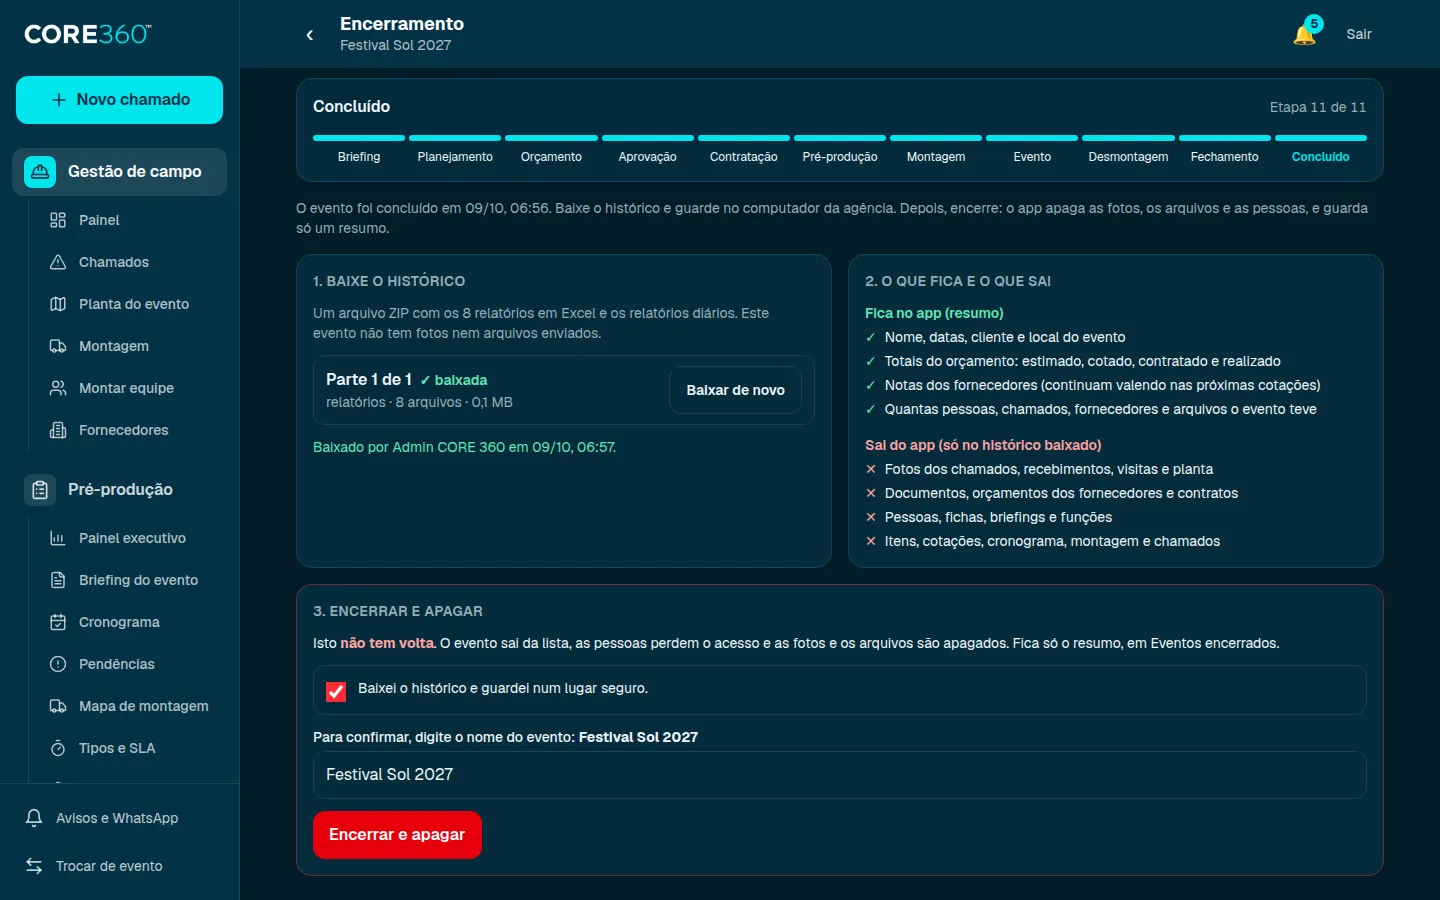
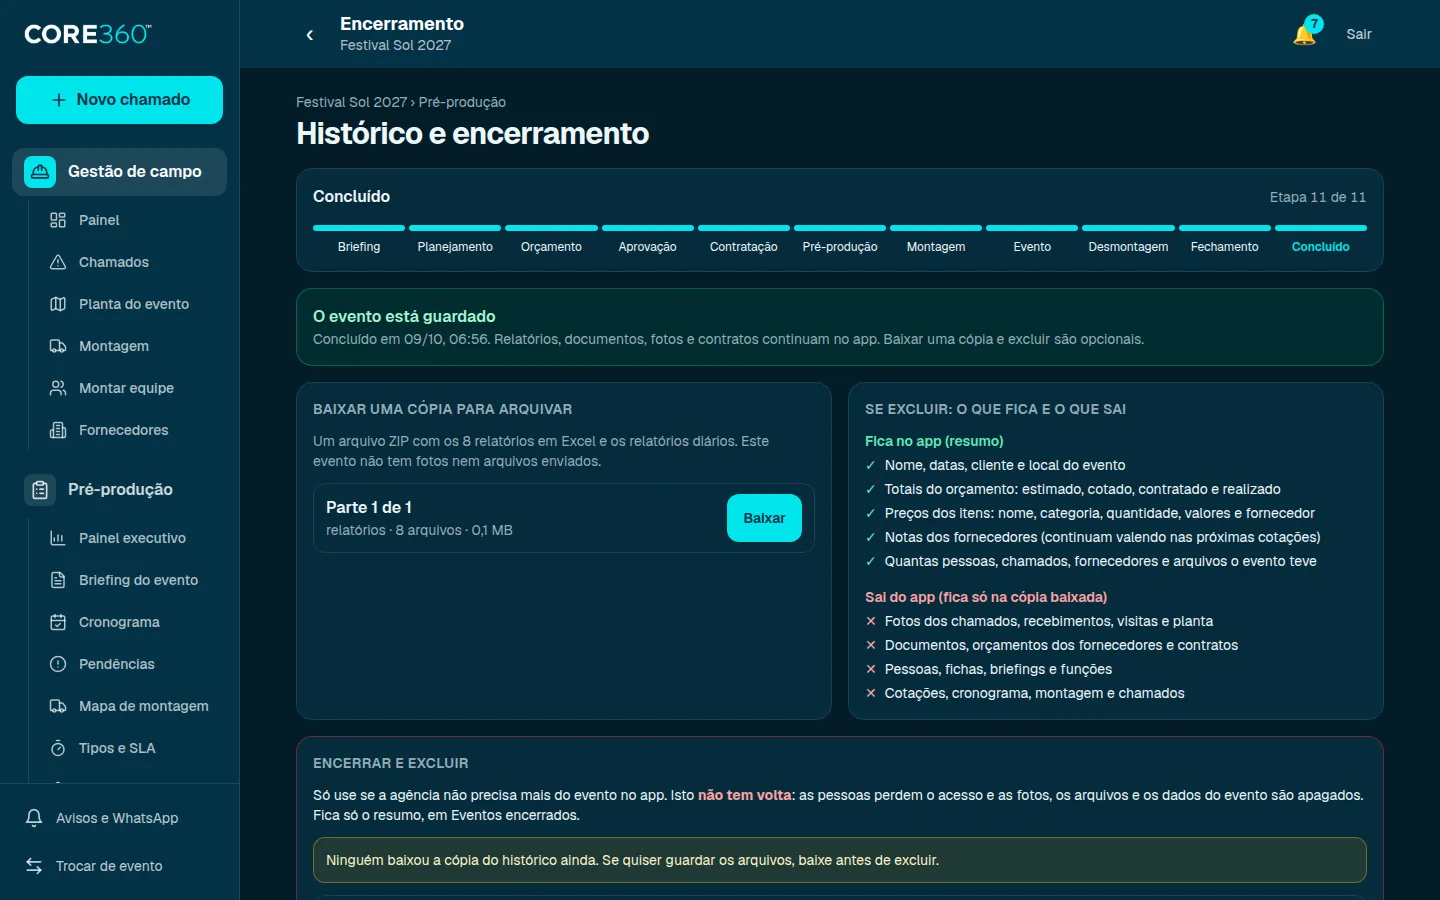
Encerramento: volta para a lista quem não vê o resumo; site com a tela nova
Claude-Session: https://claude.ai/code/session_01NXJjiWT1ebLkJ8Fi61cfJZ

diff --git a/src/modules/closure/closure.service.ts b/src/modules/closure/closure.service.ts
@@ -342,7 +342,9 @@ export async function closeEvent(actor: Actor, eventId: string, input: unknown) 
   if (!storage.inDatabase && storage.remove && keys.length) {
     await storage.remove(keys).catch((err) => console.error("Encerramento: arquivos não apagados do armazenamento", eventId, err));
   }
-  return { eventId, files: keys.length };
+  // O resumo fica para o Admin e os diretores da agência; o Gerente que não é diretor volta para a lista.
+  const visible = !!(await actor.run((tx) => tx.eventArchive.findFirst({ where: { eventId, closedAt: { not: null } }, select: { eventId: true } })));
+  return { eventId, files: keys.length, summary: visible };
 }
 
 // ───────────────────────────── eventos encerrados ─────────────────────────────

diff --git a/src/app/(app)/eventos/[eventId]/encerramento/closure-forms.tsx b/src/app/(app)/eventos/[eventId]/encerramento/closure-forms.tsx
@@ -76,8 +76,8 @@ export function ClosureForm({ eventId, eventName, downloaded }: { eventId: strin
     setError(null);
     setBusy(true);
     try {
-      await api(`/api/events/${eventId}/close`, { body: { confirm, understood } });
-      router.replace(`/encerrados/${eventId}`);
+      const r = await api<{ summary: boolean }>(`/api/events/${eventId}/close`, { body: { confirm, understood } });
+      router.replace(r.summary ? `/encerrados/${eventId}` : "/eventos");
     } catch (err) {
       setError((err as Error).message);
       setBusy(false);

diff --git a/tests/preproducao/closure.test.ts b/tests/preproducao/closure.test.ts
@@ -158,7 +158,7 @@ describe("encerrar", () => {
     const m = await actorFor(db, "marina");
     expect(storage.objects.has(docKey)).toBe(true);
     const r = await closeEvent(m, ev, { confirm: `  ${NAME.toUpperCase()} `, understood: true });
-    expect(r).toEqual({ eventId: ev, files: 1 });
+    expect(r).toEqual({ eventId: ev, files: 1, summary: true });
 
     expect(await owner.participant.count({ where: { eventId: ev } })).toBe(0);
     expect(await owner.costItem.count({ where: { eventId: ev } })).toBe(0);
